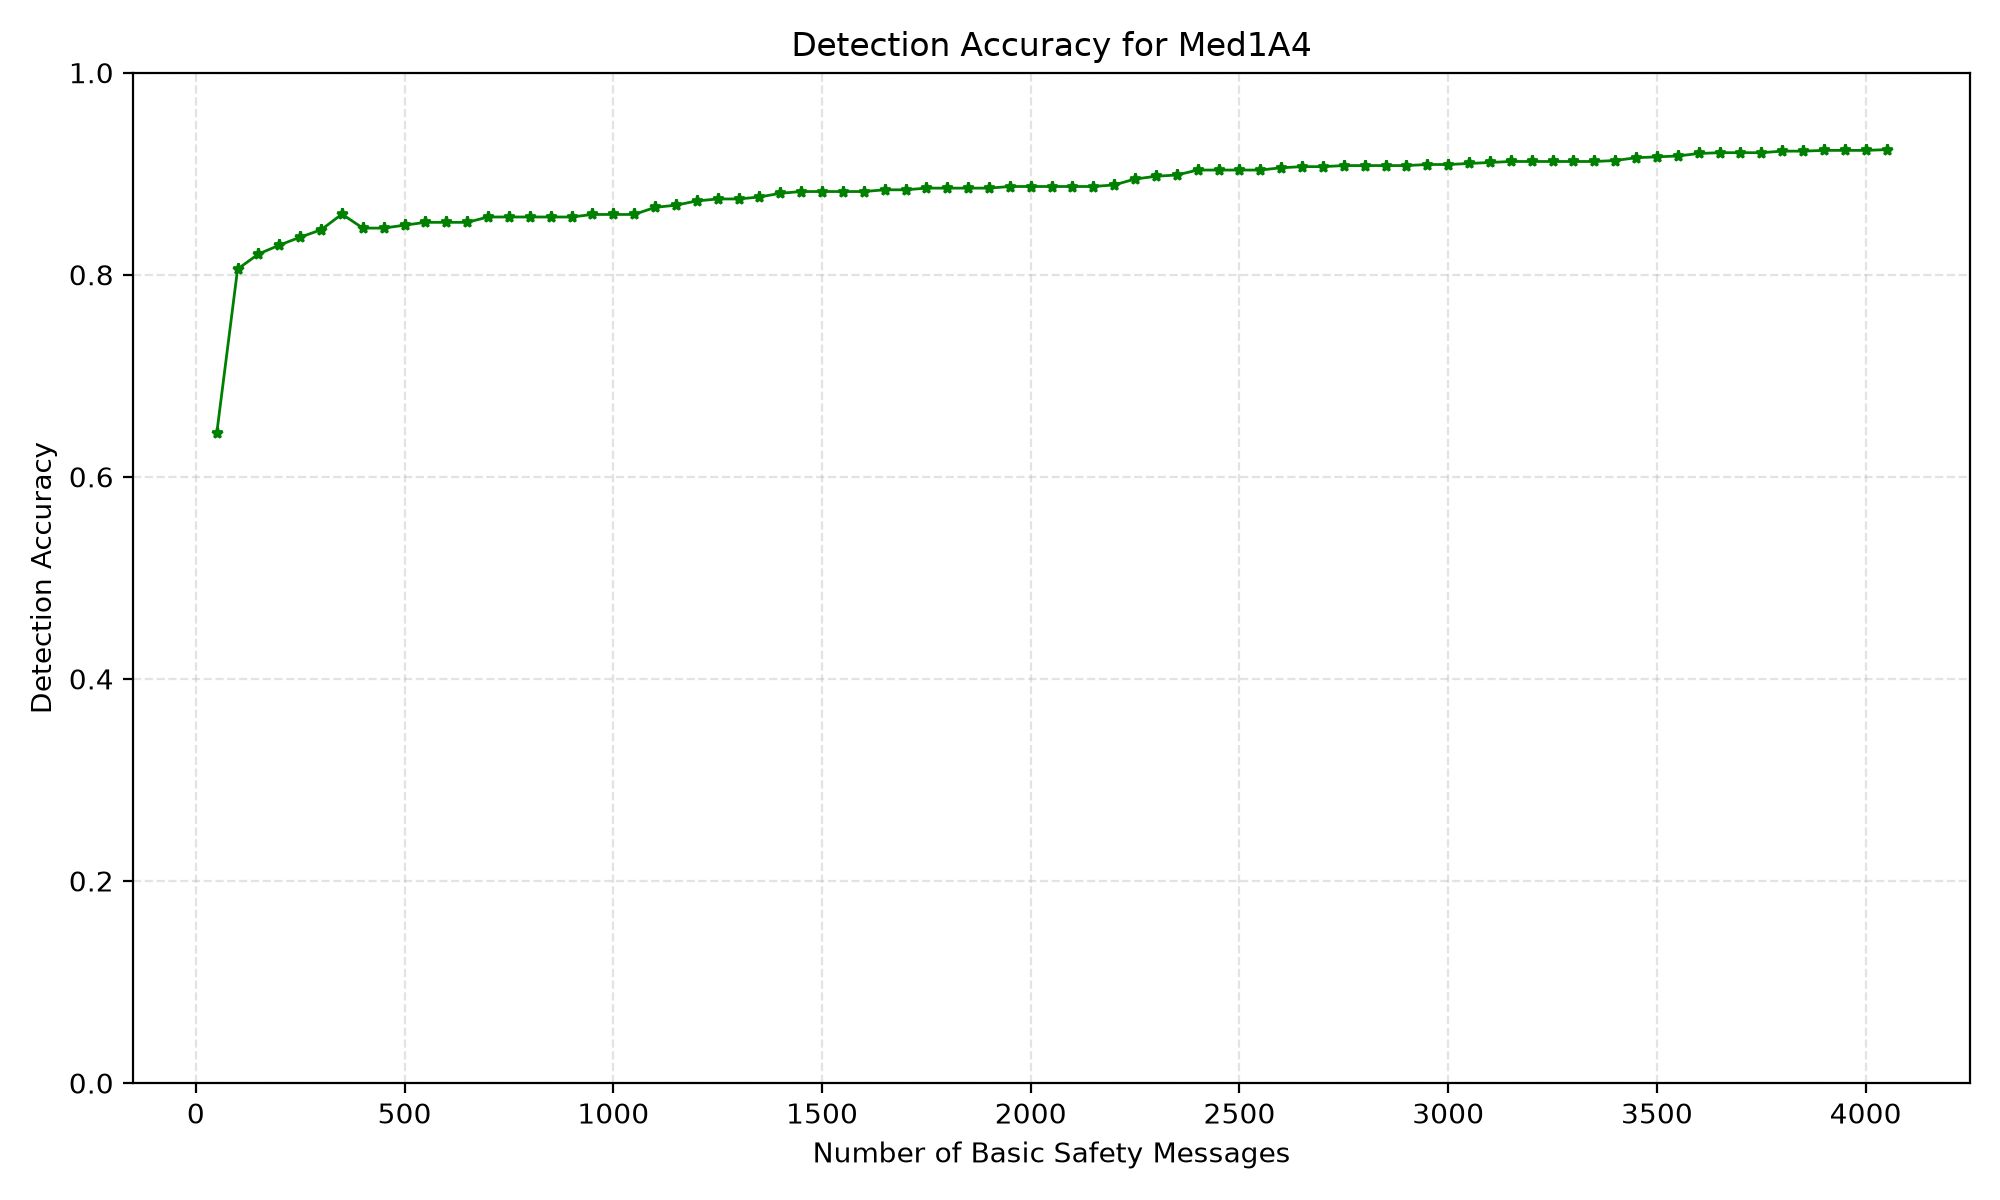
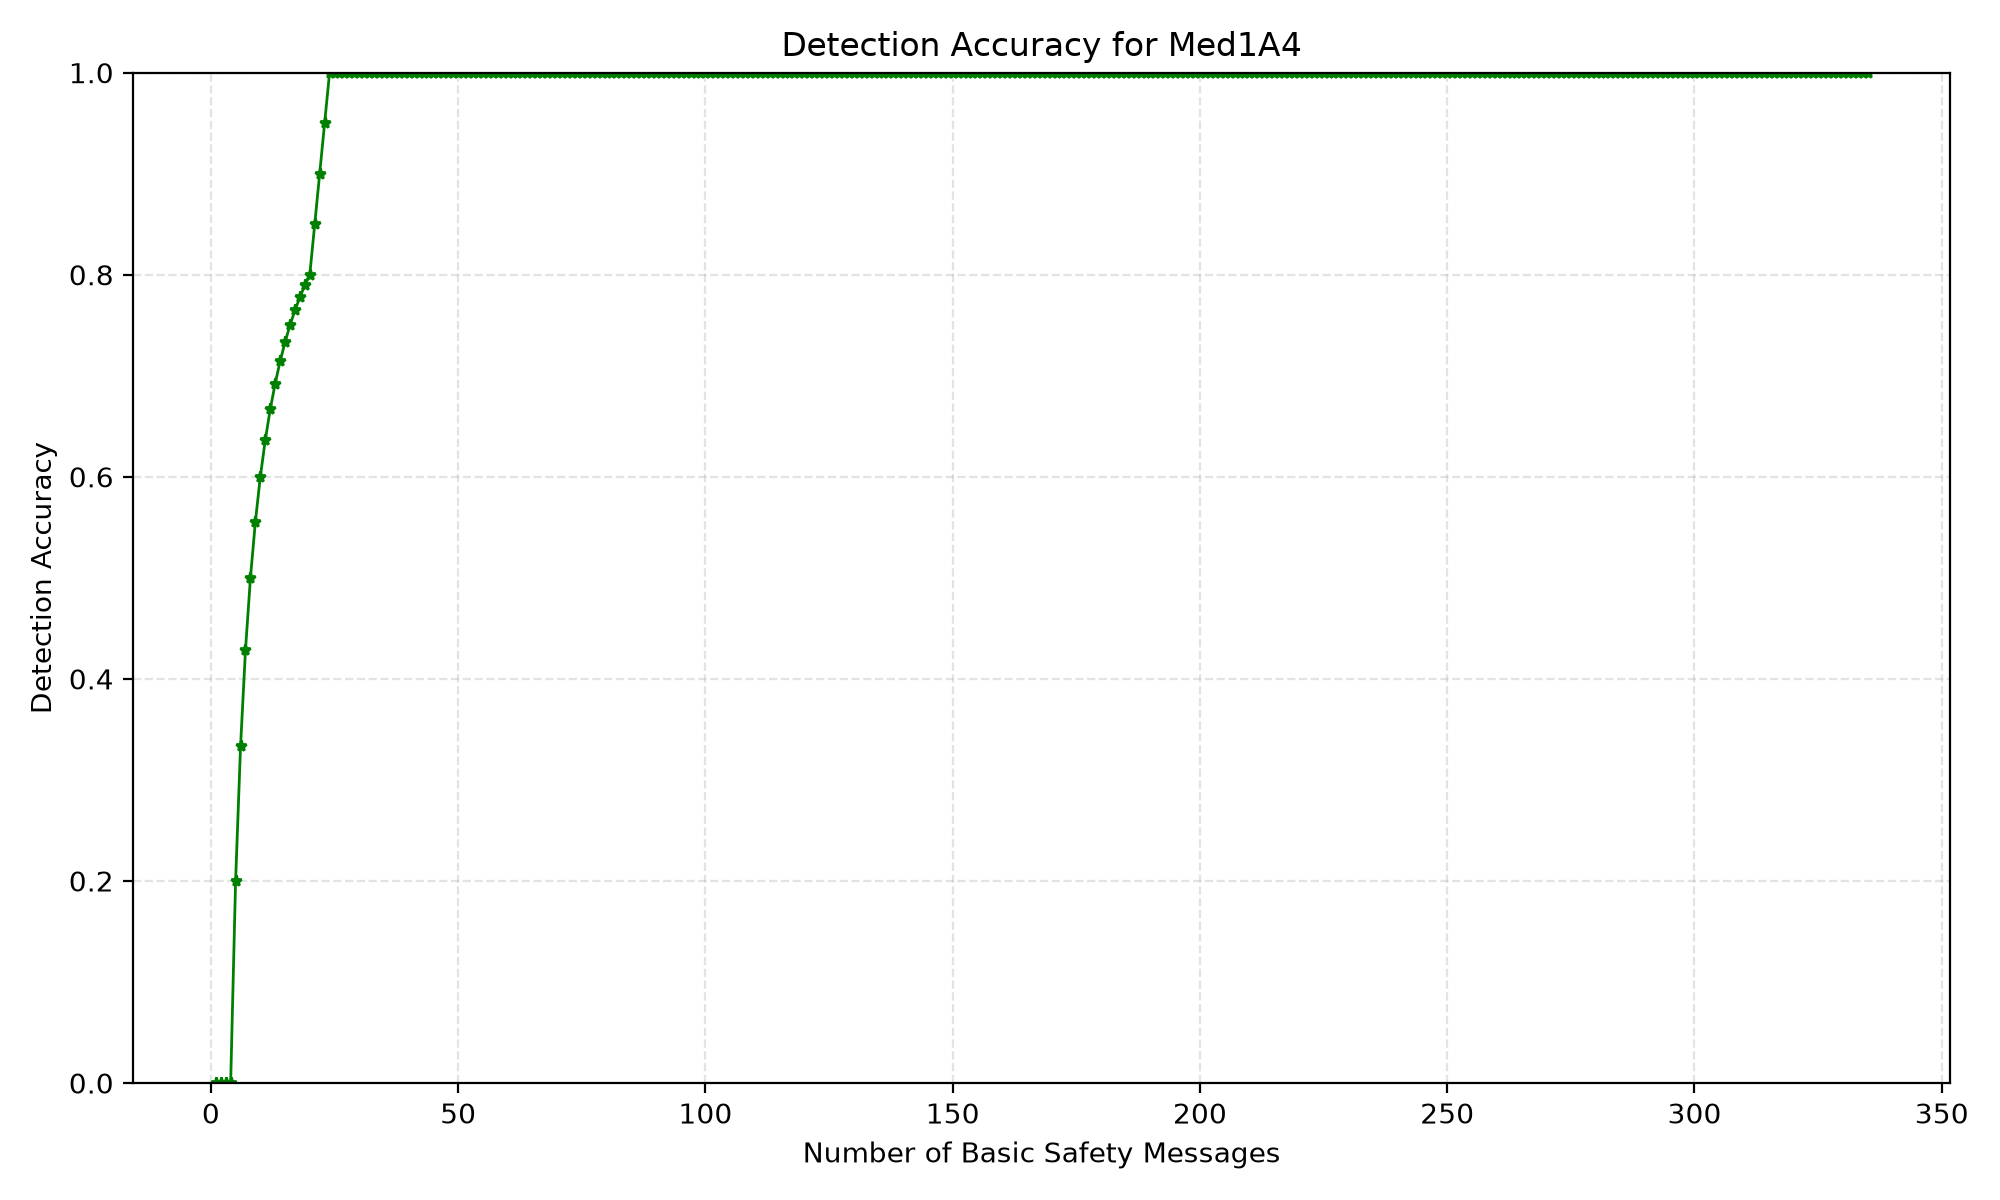
update Reward function logic and observable action logic

diff --git a/veremi_rl_detector.py b/veremi_rl_detector.py
@@ -12,10 +12,11 @@ import numpy as np
 # Issue 2 / Issue 3 / Issue 4 / Issue 5 documentation:
 # The paper's RL workflow is a binary, score-based Q-learning detector for
 # random and random-offset attacks. The implementation below follows the
-# stated paper configuration: alpha=0.1, gamma=0.9, epsilon=0.1, theta=0.5,
-# 500 training episodes, and a 70/30 sender split. Classification is based on
-# the score rule Score(v_i) = Q(low,stay) - Q(high,stay) - Q(high,switch)
-# using theta as the detection threshold.
+# paper configuration: alpha=0.1, gamma=0.9, theta=0.5, 500 training
+# episodes, and a 70/30 sender split. Training uses the paper reward mapping
+# (+1 for low/stay, 0 for high/stay, -1 otherwise) and treats the cluster
+# transition as an observed stay/switch outcome rather than an actively chosen
+# action.
 
 Q_TABLE_TEMPLATE = {
     ("low", "stay"): 0.0,
@@ -143,17 +144,24 @@ def score_sender(q_table, sender_id):
     return q[("low", "stay")] - q[("high", "stay")] - q[("high", "switch")]
 
 
-def choose_action(state, sender_q, epsilon):
-    # Epsilon-greedy policy: keep the paper's exploration rate in the loop.
-    if random.random() < epsilon:
-        return random.choice(["stay", "switch"])
+def transition_action(previous_state, current_state):
+    """Map the observed cluster transition to the paper's stay/switch action."""
+    return "stay" if previous_state == current_state else "switch"
 
-    stay_value = sender_q[(state, "stay")]
-    switch_value = sender_q[(state, "switch")]
 
-    if state == "high":
-        return "switch" if switch_value >= stay_value else "stay"
-    return "stay" if stay_value >= switch_value else "switch"
+def compute_reward(previous_state, current_state):
+    """Apply the paper's reward mapping to an observed cluster transition."""
+    action = transition_action(previous_state, current_state)
+    if previous_state == "low" and action == "stay":
+        return 1.0
+    if previous_state == "high" and action == "stay":
+        return 0.0
+    return -1.0
+
+
+def choose_action(previous_state, current_state, epsilon=None):
+    """Backward-compatible wrapper around the passive observation transition rule."""
+    return transition_action(previous_state, current_state)
 
 
 def train_ql_agent(train_tracks, labels, alpha=0.1, gamma=0.9, epsilon=0.1, episodes=500):
@@ -200,15 +208,10 @@ def train_ql_agent(train_tracks, labels, alpha=0.1, gamma=0.9, epsilon=0.1, epis
             for observed_sender, state in cluster_state.items():
                 previous_state = sender_state.get(observed_sender)
                 q = q_tables[observed_sender]
-                action = choose_action(state, q, epsilon)
 
                 if previous_state is not None:
-                    if previous_state == "low" and action == "stay":
-                        reward = 1.0
-                    elif previous_state == "high" and action == "switch":
-                        reward = 1.0
-                    else:
-                        reward = -1.0
+                    action = transition_action(previous_state, state)
+                    reward = compute_reward(previous_state, state)
 
                     q_old = q[(previous_state, action)]
                     q_next = max(q[(state, "stay")], q[(state, "switch")])

diff --git a/revised_review_response.tex b/revised_review_response.tex
@@ -192,7 +192,7 @@ Each agent $A_i$ uses a Q-learning algorithm, where the RL environment is define
     \[
     \mathcal{A} = \{\text{stay}, \text{switch}\}
     \]
-    where \texttt{stay} indicates that the vehicle remains in the same cluster as the previous round, and \texttt{switch} indicates it has changed clusters.
+    where \texttt{stay} indicates that the vehicle remains in the same cluster as the previous round, and \texttt{switch} indicates the observed cluster assignment has changed between consecutive rounds.
 
     \item \textbf{Reward function} $R(s,a)$:
     The reward function is designed to reflect suspicion based on vehicle behavior:
@@ -204,7 +204,7 @@ Each agent $A_i$ uses a Q-learning algorithm, where the RL environment is define
         -1, & \text{if } a = \text{switch} \\
     \end{cases}
     \]
-    This reward structure encourages stability in the low-distance cluster while penalizing frequent switching or persistent presence in the high-distance cluster, which are indicative of suspicious behavior.
+    This reward structure encourages stability in the low-distance cluster while penalizing frequent switching or persistent presence in the high-distance cluster, which are indicative of suspicious behavior. In the implementation, the transition from one clustering round to the next is treated as an observed stay/switch outcome, and the reward is assigned according to the paper's mapping: $+1$ for low/stay, $0$ for high/stay, and $-1$ otherwise.
 \end{itemize}
 
 \subsection{Q-Learning Algorithm}

diff --git a/tests/test_rl_reward_logic.py b/tests/test_rl_reward_logic.py
@@ -1,0 +1,25 @@
+import unittest
+
+from veremi_rl_detector import compute_reward, transition_action
+
+
+class RLRewardLogicTests(unittest.TestCase):
+    def test_low_state_stay_reward_is_positive(self):
+        self.assertEqual(compute_reward("low", "low"), 1.0)
+
+    def test_high_state_stay_reward_is_zero(self):
+        self.assertEqual(compute_reward("high", "high"), 0.0)
+
+    def test_any_state_change_is_penalized(self):
+        self.assertEqual(compute_reward("low", "high"), -1.0)
+        self.assertEqual(compute_reward("high", "low"), -1.0)
+
+    def test_transition_action_is_passive_observation(self):
+        self.assertEqual(transition_action("low", "low"), "stay")
+        self.assertEqual(transition_action("high", "high"), "stay")
+        self.assertEqual(transition_action("low", "high"), "switch")
+        self.assertEqual(transition_action("high", "low"), "switch")
+
+
+if __name__ == "__main__":
+    unittest.main()

diff --git a/README.md b/README.md
@@ -3,7 +3,7 @@
 This repository reflects the paper's hybrid design:
 
 - A supervised grid-based detector handles all five VeReMi attack families.
-- A Q-learning detector implements the paper's score-based RL method for the binary random and random-offset cases.
+- A Q-learning detector implements the paper's score-based RL method for the binary random and random-offset cases using the paper's reward mapping and passive-observation transition rule.
 
 ## Repository Structure
 
@@ -74,10 +74,11 @@ The RL evaluation now uses a cumulative, evidence-based metric with a minimum ev
 1. The script loads the requested scenario's BSM traces and ground-truth labels.
 2. It splits the message stream chronologically into a 70/30 train/test split.
 3. It trains a Q-learning agent for 500 episodes using the paper's RL settings.
-4. During evaluation, it computes the score
+4. During training, each observed cluster transition is encoded as a stay/switch outcome, and the reward follows the paper's mapping: +1 for low/stay, 0 for high/stay, and -1 otherwise.
+5. During evaluation, it computes the score
    `Q(low, stay) - Q(high, stay) - Q(high, switch)`
    and uses it with the paper's threshold `theta = 0.5`.
-5. Accuracy is sampled over the sequential BSM stream with a rolling average so the curve reflects gradual learning behavior rather than abrupt jumps.
+6. Accuracy is sampled over the sequential BSM stream with a rolling average so the curve reflects gradual learning behavior rather than abrupt jumps.
 
 ## Notes
 
